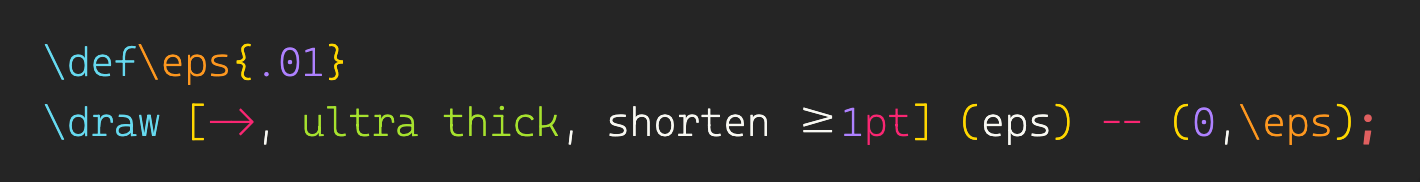
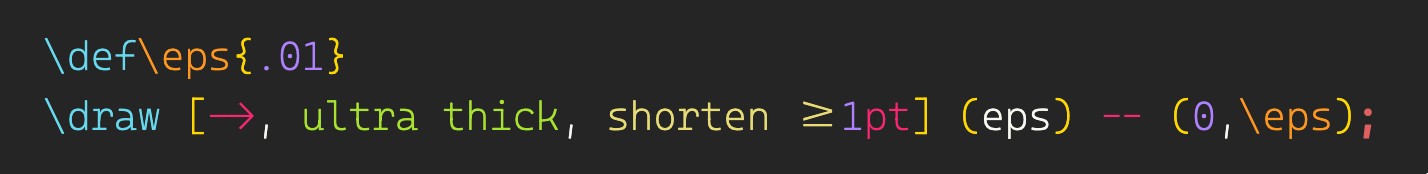
Use the screenshot taken after the option key had a colour
The one in place was shot before that, so `shorten >` reads as ordinary text in it --
the exact fault the picture is there to say the extension does not have.

Changed region(s): [[0.031, 0.546, 0.9915, 0.8046], [0.031, 0.2299, 0.2479, 0.431], [0.1239, 0.546, 0.1549, 0.6034]]

diff --git a/README.md b/README.md
@@ -11,7 +11,7 @@ path join, `(eps)` a coordinate and `\eps` a variable — because the file `\def
 lines up. Every token maps to a conventional TextMate scope with a `.tikz` suffix, so the
 colours come from whichever theme you use.
 
-![The same line with the extension on: \eps amber where it is defined and where it is used, \draw still cyan, and the arrow tip, style, dimension, path join and coordinate each with a colour of their own.](images/highlighting.png)
+![The same two lines with the extension on: \eps amber where it is defined and where it is used, \draw still cyan, and the arrow tip, the option key, the style, the dimension, the path join and the coordinate each with a colour of their own.](images/highlighting.png)
 
 ## Building a figure
 
